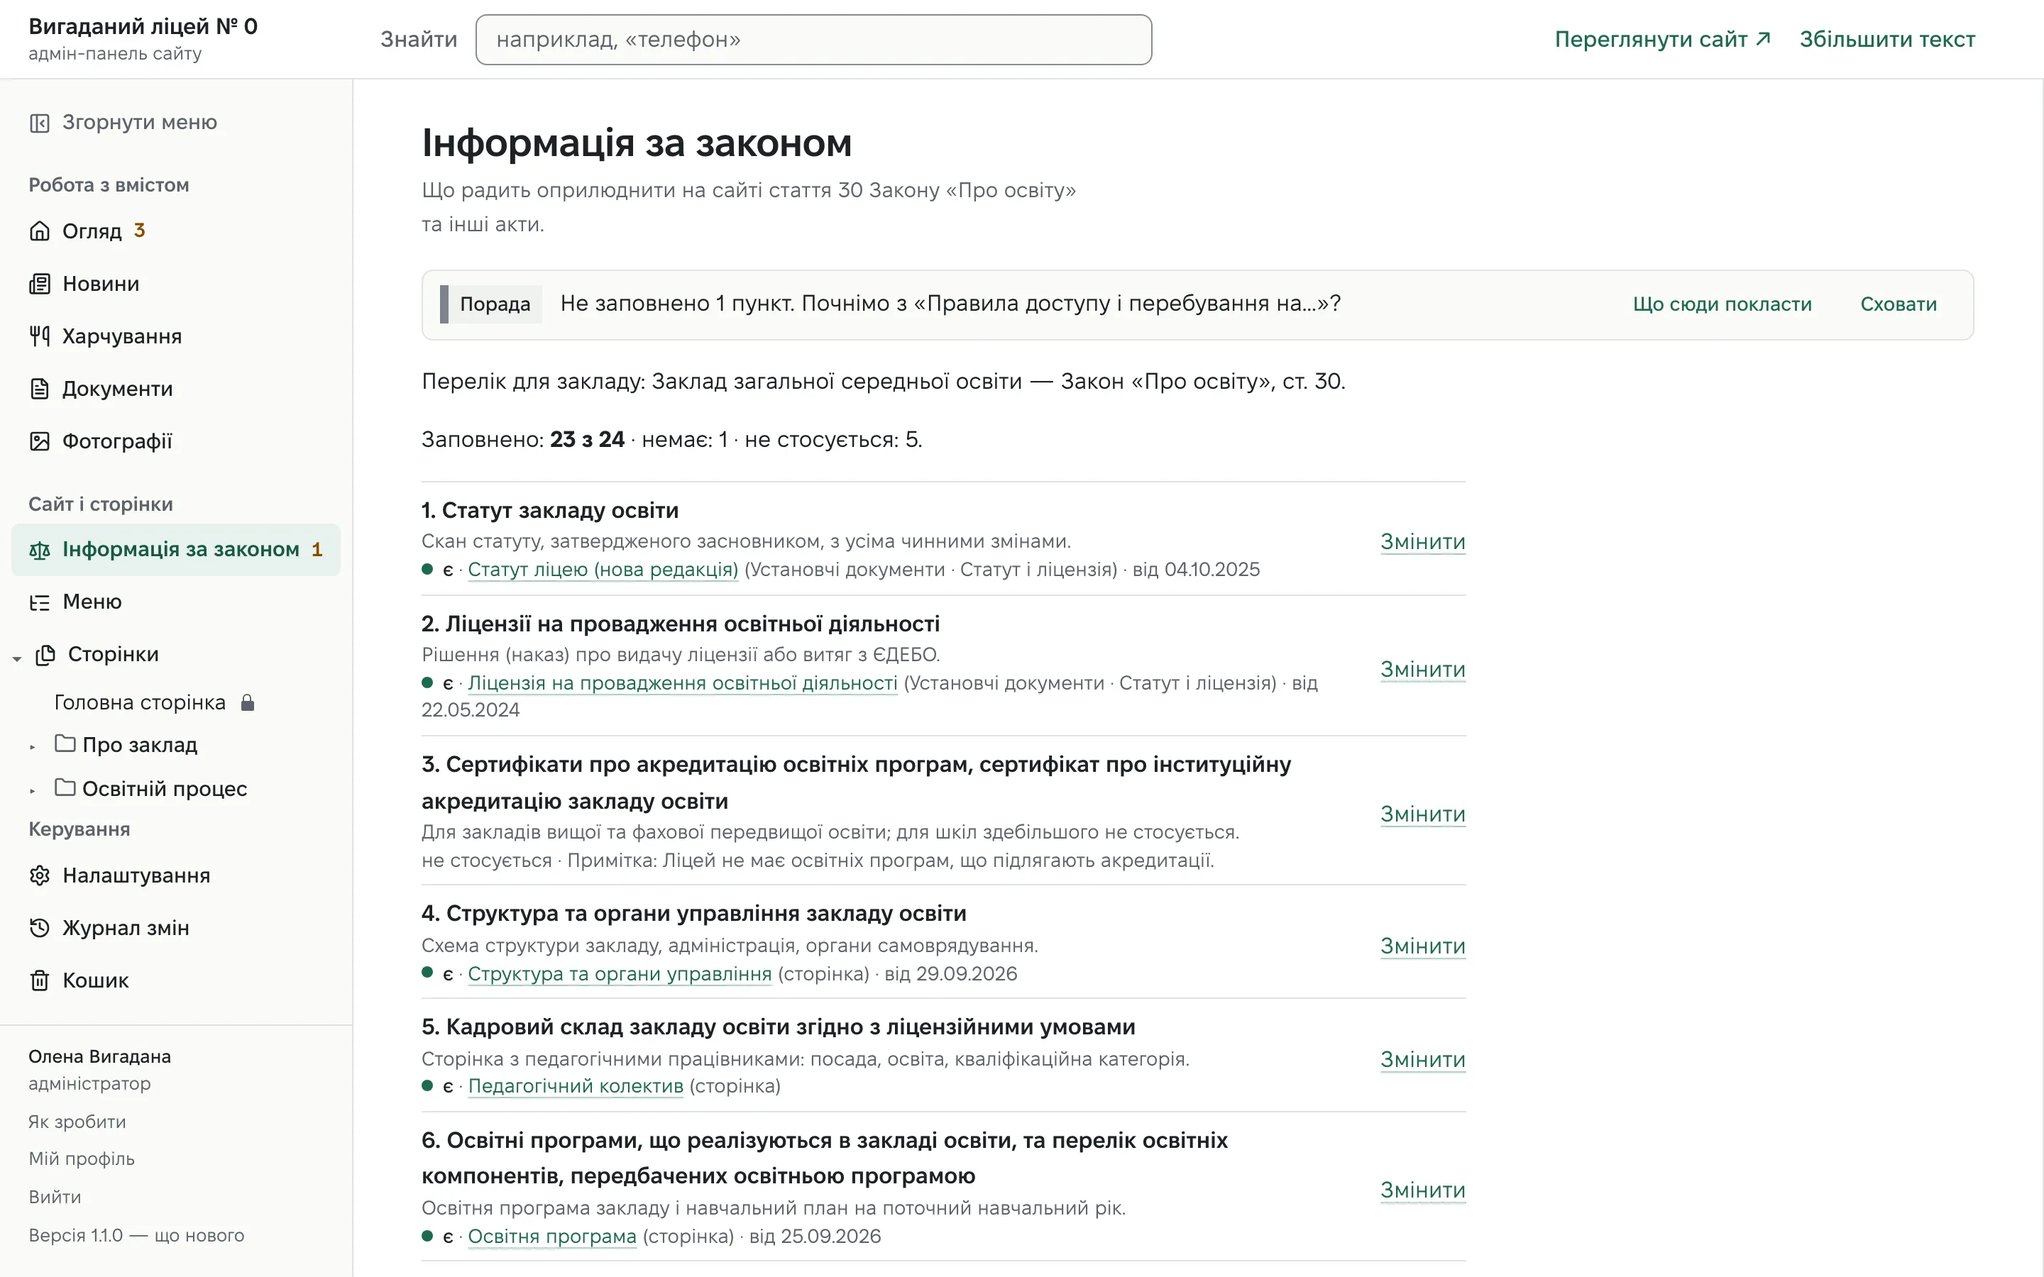
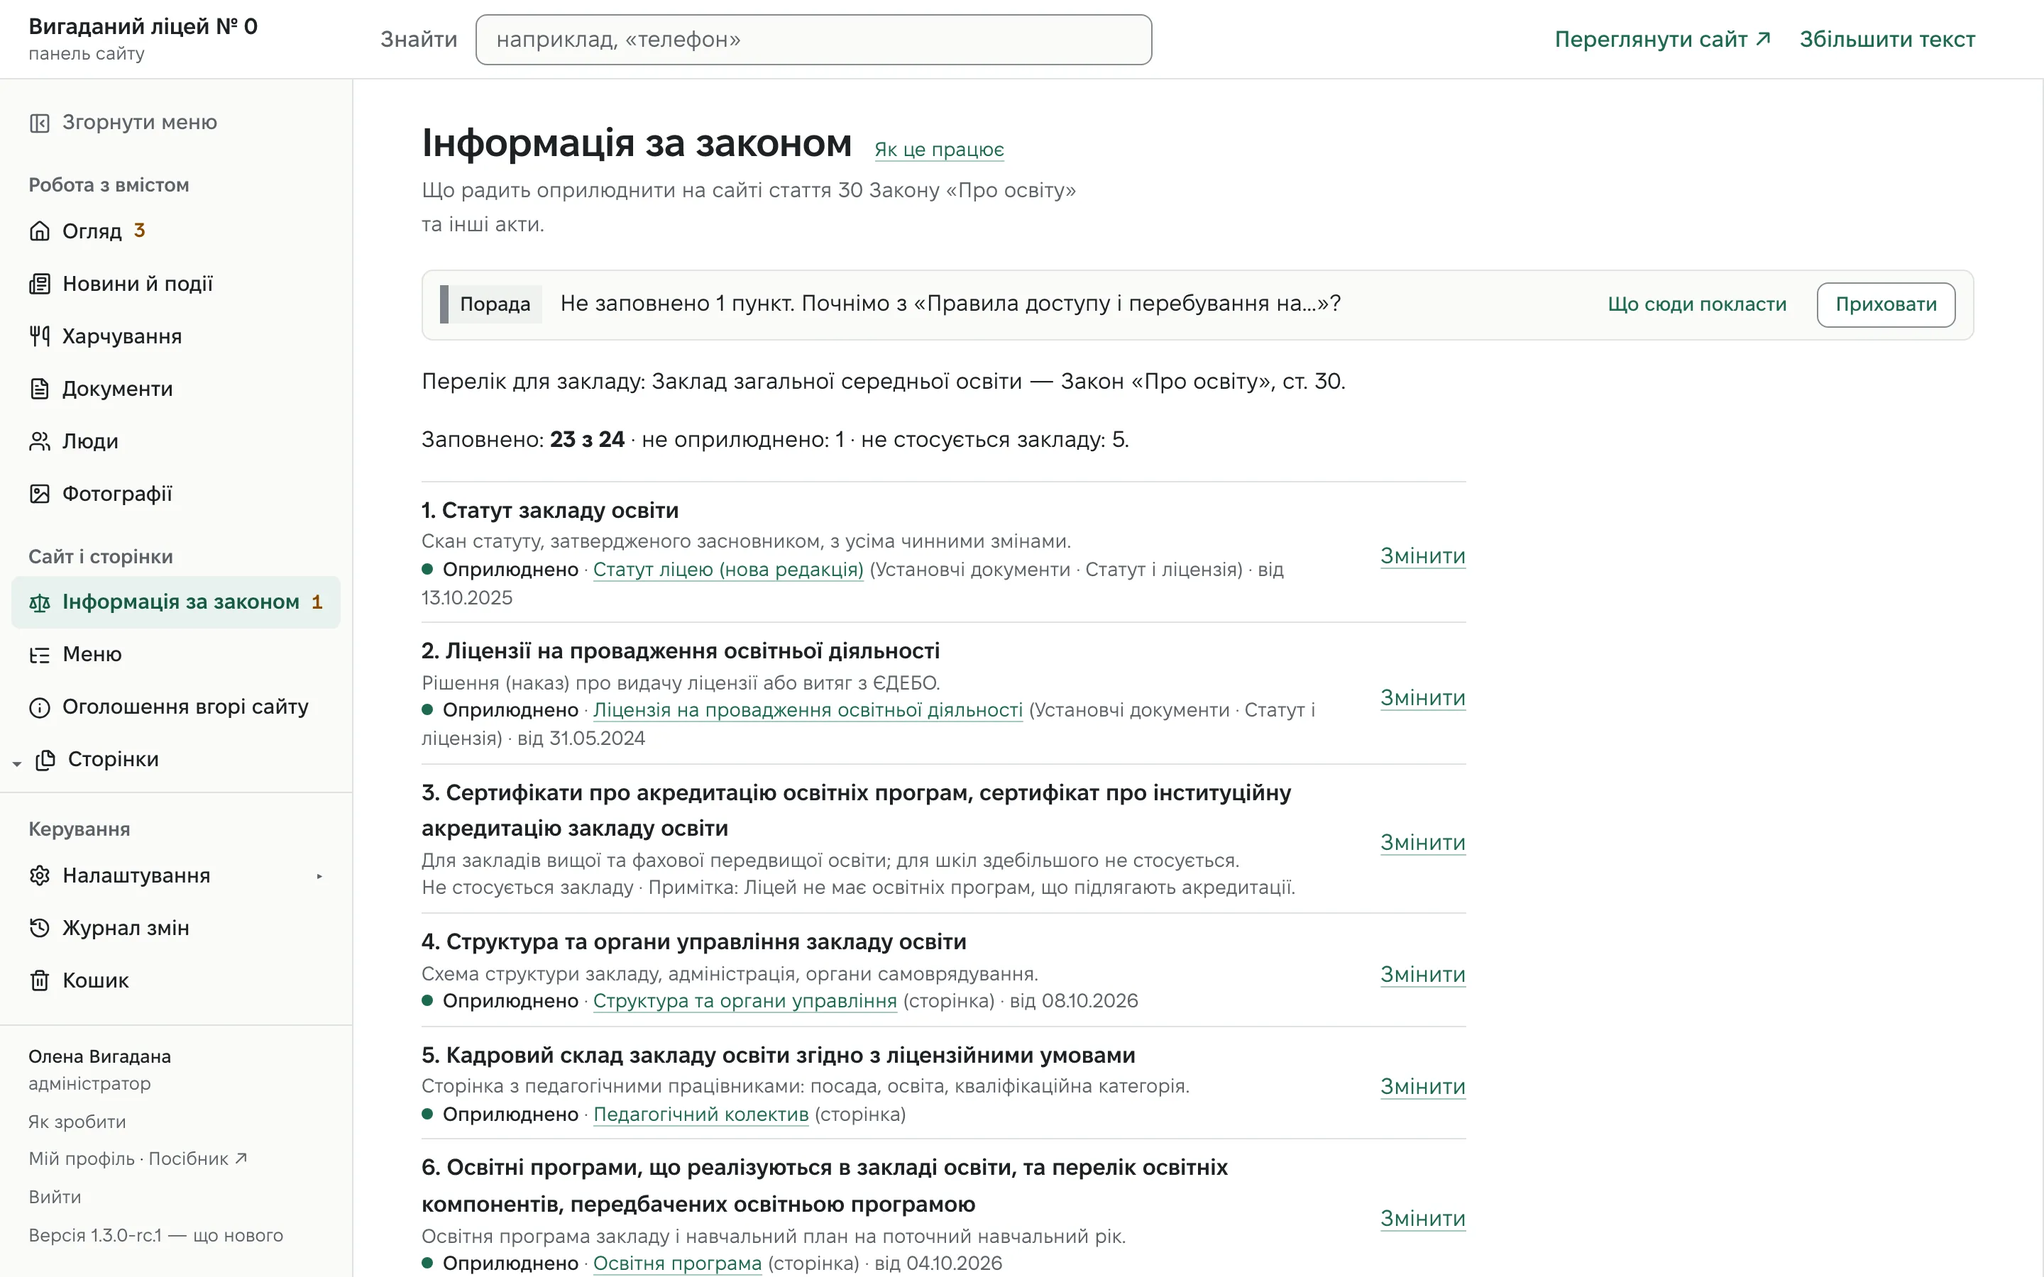
The panel and meals pictures and the texts follow Tabula 1.3.0 (#69)
Tabula 1.3.0 redesigned the panel and rebuilt «Харчування»: the photo is
taken on the tab «Сьогодні», the four-week menu is gone, «Меню на тиждень»
replaced it. The home's pictures were from 8–9 November.

Pictures (shot from 1.3.0-rc.1, without the assistant's buttons):
- the eight panel screens are re-shot; `admin-m-meals` now shows a meal card
  of «Сьогодні» with «Сфотографувати сніданок»;
- `phone-meal-allergens` and `phone-meal-day` are re-shot; the allergens
  picture sits in the tall phone frame, so the legend is inside it;
- the 16 template pictures and the КЕП line did not change and are untouched.

scripts/shots.mjs is reproducible again: the meal rows find their day on the
running demo instead of a hard-coded date (the newest three-photo day with
the chat card's dishes; the day with the allergen dishes) and fail loudly when
it is missing; the allergens setup works on 1.3.0; one sign-in for all panel
rows, and a row that lands on the sign-in page fails; `--only a,b`.
facts.json records the day of `phone-meal-day`, and the chat card of the
home reads its date from it.

Texts: «Три дотики»; «Меню на тиждень» instead of the four-week menu; the
allergen and calorie marks are shown for dishes with a card or manual marks
once their display is on; the role is «дописувач»; «Вигляд змінюєте
будь-коли»; the alts describe the new pictures. check-built refuses
«чотиритижнев» on a product page.

diff --git a/CLAUDE.md b/CLAUDE.md
@@ -2,7 +2,7 @@
 
 > Internal reference for Claude Code sessions working in this repository.
 >
-> **Last verified: 2026-11-17 («Спробувати»: the tick hint, the same address within the minute, the stored fields, no «відеотур»). Before that, 2026-11-16 (story 92 part B, slice SB1: the contract's edition of 2026-11-17 with п. 4.9, the form `third-party-consent`, the invoice's `thirdPartyConsent` line). Before that, 2026-11-15 (issue #57: the guide's two layers — structure from the imported files, areas in the sidebar, the landing at `/editor/`, topic links on every article, the hosted line; the product's header and footer on the guide's pages, `src/styles/chrome.css`).**
+> **Last verified: 2026-11-17 (issue #69: the panel and meals pictures re-shot from Tabula 1.3.0-rc.1, `facts.json`'s `mealDay`, the texts that 1.3.0 changed). Before that, 2026-11-17 («Спробувати»: the tick hint, the same address within the minute, the stored fields, no «відеотур»). Before that, 2026-11-16 (story 92 part B, slice SB1: the contract's edition of 2026-11-17 with п. 4.9, the form `third-party-consent`, the invoice's `thirdPartyConsent` line). Before that, 2026-11-15 (issue #57: the guide's two layers — structure from the imported files, areas in the sidebar, the landing at `/editor/`, topic links on every article, the hosted line; the product's header and footer on the guide's pages, `src/styles/chrome.css`).**
 >
 > **How to keep this file honest:** every pull request that changes a convention, a command,
 > or the file layout updates the matching section of this file in the same PR.
@@ -43,13 +43,14 @@ Exists now:
 | `src/components/product/` | Story 80: `Header.astro`, `Footer.astro` (with the `help` slot; three link columns and a bottom row, see Conventions), `Shot.astro` (responsive `astro:assets` image), `Tick.astro`, `shots.ts` (the screenshots + hero preload options), `home/*.astro` (one component per section) |
 | `src/components/product/home/NextStep.astro` | The slim «what to do next» row between two sections of the home (after the assistant and after «Чому Tabula»): one sentence, «Подати заявку» (`requestHref`) and an optional second link. «Чому Tabula» marks the usual way with a red cross and muted text, not struck-through text (it was hard to read); the assistant's six tabs are a 2 × 3 grid below 560 px |
 | `src/scripts/tabs.js`, `src/scripts/header.js` | Story 80: the only two scripts of the product pages (tabs with keyboard support — the assistant, the templates and the step tabs of «Харчування» and «Панель»; header shadow and «Меню») |
-| `src/assets/shots/` | Story 80: the home's screenshots (WebP) and `facts.json` (`lawFilled`/`lawTotal`), written by `scripts/shots.mjs`; committed |
+| `src/assets/shots/` | Story 80: the home's screenshots (WebP) and `facts.json` (`lawFilled`/`lawTotal`, `mealDay`: the ISO date shown on `phone-meal-day`, which the chat card of `Meals.astro` quotes through `src/lib/meal-day.mjs`), written by `scripts/shots.mjs`; committed |
 | `scripts/shots.mjs` (`npm run shots`), `scripts/lib/shot-kep-line.cjs` | Story 80: reproducible screenshots from a running tabula demo; the `SHOTS` table is exported and tested in `test/shots.test.mjs` |
 | `scripts/budget.mjs` (`npm run budget`), `scripts/lib/serve-dist.mjs` | Story 80: the home's performance budget (600 KB at 390 px, lazy images, LCP preload); the static server of `dist/` shared with `a11y.mjs` |
 | `scripts/documents.mjs` (`npm run documents`), `scripts/lib/document-templates.mjs`, `public/dokumenty/*.pdf` | The downloads of the documents table on «Для бухгалтерії» (`offer.documents[].pdf`): `document-templates.mjs` joins the forms of `scripts/lib/documents/` for the current edition into the eight files, which are printed to PDF, and `dohovir.pdf` is printed from the built contract page; committed — see Conventions («The contract») |
 | `scripts/lib/documents/` (`forms.mjs`, `format.mjs`, `print.mjs`), `scripts/documents-edition.mjs` (`npm run documents:edition`), `test/forms.test.mjs`, `test/fixtures/forms-look-2026-11.json` | The forms as pure functions: `renderForm(kind, terms, data)` (ten kinds; `FORMS[kind].fields` lists the data keys), the pure formatters (`offer.mjs` re-exports them) and the print frame with the embedded face (Tinos, `@fontsource/tinos`). The folder imports nothing outside itself; `documents:edition` copies it with `terms.json` and `manifest.json` (sha256 of every file) to `dist-documents/<contractEdition>/` (gitignored). The fixture holds the text of the eight public files after the look was redesigned (2026-11, ДСТУ 4163:2020), in the edition of 2026-11-17: the wording must not drift |
 | `THIRD_PARTY_LICENSES.md` | The fonts (SIL OFL 1.1, via Fontsource), the CC0 photos and the music of the guide's clips (CC BY 4.0) |
 | `public/guide/clips/<name>.mp4`, `<name>.webp` | The school guide's fourteen short clips (H.264 + AAC, 1280×720, about 19 MB together; recorded with a visible pointer — an arrow in a yellow highlight, a tap spot in the phone clip) and the poster of each; the name is the name in the guide's `<!-- video: <name> -->` marker; committed, served as they are — see Conventions («The guide's clips») |
+| `src/lib/meal-day.mjs`, `test/meal-day.test.mjs` | `formatMealDay(iso)`: «вівторок, 17 листопада» (no-break space) for the chat card of the home's «Харчування», from `facts.json`'s `mealDay` |
 | `test/tabs.test.mjs`, `test/shots.test.mjs` | `node --test`: tabs keyboard logic (pure helper + a fake DOM); the `SHOTS` table (every file exists, starts `RIFF….WEBP`, `facts.json` valid) |
 | `src/content/pages/*.md(x)`, `src/pages/[slug].astro`, `src/layouts/ProductPage.astro` | Story 80 (S2): the fourteen reading pages of the site (the `pages` collection; the fourteenth is `dohovir`, the contract), at `/<slug>/` in the product layout; the `.mdx` ones import `offer.mjs` for the numbers and dates |
 | `src/content/editions/dohovir-<edition>.mdx`, `src/pages/dohovir/[edition].astro`, `public/dokumenty/dohovir-<edition>.pdf` | The earlier editions of the contract (п. 10.3), frozen (their numbers inlined, links one level deeper) and listed in `offer.contractArchive`, each at `/dohovir/<edition>/` with its own PDF; `/dohovir/<contractEdition>/`, the address the forms cite, is an `astro.config.mjs` redirect to `/dohovir/`; `check-built`'s `checkContractEditions` holds both — see Conventions («The contract») |
@@ -395,13 +396,24 @@ happens in each workflow, not in the composite action. Both checkouts pass
   for the laptop); from 900 px the steps sit beside the stage, below it the stage comes right under the heading and the steps follow. Without JS every panel shows
   under its heading with the step's text (`.showcase__note`, hidden with JS). «Харчування»: admin phone → day page + the chat card sliding in from the right →
   `phone-meal-allergens` (with the `<li>` claim «15 алергенів за постановою № 305» and its link, spec decision 14) → the handwritten sheet (the scan line runs
-  once, then the «Сніданок / Обід» lines appear). `phone-meal-allergens` is a real shot of the public day page with the marks on: its row in `scripts/shots.mjs` has `setup: 'allergens'` (signs in as the fixture admin, turns on «Позначати алергени й калорійність у меню», marks the shot's day dishes with codes and kcal — it CHANGES the demo's throwaway database, so only that row runs it) and scrolls to the dishes and the legend. The panel screens of the «Панель» story (`admin-overview` `/admin`, `admin-news-editor` `/admin/news/1/edit`, `admin-pages` `/admin/pages`, `admin-documents`, `admin-albums` `/admin/photos`, `admin-events` `/admin/events`) are template-free rows clipped to the panel's content area, 1110×624 (16:9, so no button is cut at the right edge; `crop-overview` was dropped for `admin-overview`, same clip). The demo throttles sign-ins (a few per minute); shoot rows one at a time. (6) **«Панель»**: six step tabs (title + text; the first two are the mockup's strings, the rest written from `docs/editor/*.md`), each panel a laptop with its screen (`admin-overview`, `admin-news-editor`, `admin-pages`, `admin-documents`, `admin-albums`, `admin-events`); only the screen inside the frame moves on a switch. The five short lines of the mockup («Огляд» підкаже… Переїзд…) are a compact grid (`.panel__notes`) under the tabs. Step 2 says «попередні версії зберігаються», not «кожна версія»: the news «Історія» keeps the last 50 versions. The script is inlined
+  once, then the «Сніданок / Обід» lines appear). `phone-meal-allergens` is a real shot of the public day page with the marks on: its row in `scripts/shots.mjs` has `setup: 'allergens'` (uses the shared session of the fixture admin, turns on «Показувати калорійність, Б/Ж/В і алергени», marks the shot's day dishes with codes and kcal and ticks their «Показувати на сайті» boxes — it CHANGES the demo's throwaway database, so only that row runs it) and scrolls so that the breakfast block, the «Разом» lines and the start of the legend are in the frame. Its day is the seed's «Оладки зі сметаною…» day, `phone-meal-day`'s the day with three photos: the seed's dates are relative to the day the demo starts, so both are found on the running demo (`findMealDays`, `day: 'allergens' | 'photos'`; a missing day fails loudly). The first step's picture, `admin-m-meals`, is the panel's `/admin/kharchuvannia/sohodni` («Сьогодні») on a phone scrolled so the breakfast card (photo taken, dishes, «Сфотографувати сніданок», «Обрати фото з галереї», «Опублікувати») is whole in the frame; the title and tabs scroll out (at 390×844 the cards start below the fold). The panel screens of the «Панель» story (`admin-overview` `/admin`, `admin-news-editor` `/admin/news/1/edit`, `admin-pages` `/admin/pages`, `admin-documents`, `admin-albums` `/admin/photos`, `admin-events` `/admin/events`) are template-free rows clipped to the panel's content area, 1110×624 (16:9, so no button is cut at the right edge; `crop-overview` was dropped for `admin-overview`, same clip). The demo throttles sign-ins (a few per minute): one process signs in once and keeps the session for all its panel rows, so shoot panel rows together (`--only a,b,c`). (6) **«Панель»**: six step tabs (title + text; the first two are the mockup's strings, the rest written from `docs/editor/*.md`), each panel a laptop with its screen (`admin-overview`, `admin-news-editor`, `admin-pages`, `admin-documents`, `admin-albums`, `admin-events`); only the screen inside the frame moves on a switch. The five short lines of the mockup («Огляд» підкаже… Переїзд…) are a compact grid (`.panel__notes`) under the tabs. Step 2 says «попередні версії зберігаються», not «кожна версія»: the news «Історія» keeps the last 50 versions. The script is inlined
   into the home page whatever its size (`assetsInlineLimit` in `astro.config.mjs`): as a separate file it ran after the first paint and the panels it hides flashed.
   `npm run a11y` also scans the home at 1280 px with motion allowed after scrolling to the bottom in steps and waiting 3 s.
 - Screenshots (story 80, decision 11): `scripts/shots.mjs` (`npm run shots`) drives Playwright against a running tabula demo
-  (`npm run demo -- --seed school --template <key>` in a tabula checkout; `TABULA_DEMO_URL`, default `http://127.0.0.1:3100`) and
+  (`npm run demo -- --seed school --template <key> --port 3100` in a tabula checkout: without `--port` the demo takes a free port;
+  `TABULA_DEMO_URL`, default `http://127.0.0.1:3100`) and
   writes WebP into `src/assets/shots/` (committed); its exported `SHOTS` table is the list of files. `--template <key>` shoots that
-  template's rows plus the template-free ones (the body class is checked against the demo's template); `--only <file>` one row.
+  template's rows plus the template-free ones (the body class is checked against the demo's template); `--only <file>[,<file>…]` takes those rows.
+  The pictures of the panel and the meals were last shot from Tabula 1.3.0-rc.1 (`TABULA_DIR` pointing at an export of that tag; the 16
+  template pictures and `kep-line` did not change and were not re-shot). The demo is started without `--fake-platform` / `--fake-gateway`:
+  `--fake-platform` (a site «on hosting») does NOT remove the «Пошту не налаштовано» card of «Огляд» (checked on 1.3.0), and the
+  assistant's buttons stay out of the pictures while `offer.assistantStatus` is `testing`; nothing on a page is hidden or edited for a shot.
+  The sidebar of `admin-law` shows the demo's version label «Версія 1.3.0-rc.1»: re-shoot it from the release when it is out.
+  The meal rows find their day on the running demo (the seed's dates are relative to the day it starts): `phone-meal-day` takes the
+  newest day with three photos that lists `CHAT_DISHES` (the dishes the chat card of `Meals.astro` types by hand: change the two
+  together), `phone-meal-allergens` the day with `ALLERGEN_DISHES`; a missing day fails the run, and so does a panel row that lands on
+  the sign-in page. The two pictures of the home's «Харчування» that show a whole phone screen (`admin-m-meals`,
+  `phone-meal-allergens`) sit in the tall phone frame, so the legend under the menu is inside the frame.
   The demo's address (origin and host:port from `TABULA_DEMO_URL`, and `localhost`) is replaced by `licey0.tabula.org.ua` in the page before each shot; shots are written at their real scale-2 pixel size (astro:assets makes the responsive widths). `phone-meal-day` and `kep-line` are pinned to `panorama`. `kep-line` needs a signed document, which
   the demo cannot show (its signatures are not chained to a trusted provider), so `scripts/lib/shot-kep-line.cjs` starts a throwaway
   site from the tabula checkout (`TABULA_DIR`, default `../tabula`) with a fictitious trusted chain. The three CC0 photos are copied

diff --git a/CONTRIBUTING.md b/CONTRIBUTING.md
@@ -108,14 +108,18 @@ takes them from a running demo of tabula, in two terminals.
 
 ```sh
 # terminal 1, in a tabula checkout (a sibling ../tabula by default):
-npm run demo -- --seed school --template panorama
+npm run demo -- --seed school --template panorama --port 3100
 
 # terminal 2, in this repository (npx playwright install chromium once):
 npm run shots -- --template panorama
 ```
 
 `--template <key>` takes the rows of that template and the template-free rows (the panel screens); `phone-meal-day` and `kep-line` show a public page, so they are pinned to `panorama`; restart the
-demo with `--template vitryna`, `stend` or `shkilna` and repeat for those. `--only <file>` takes one row. The table
+demo with `--template vitryna`, `stend` or `shkilna` and repeat for those. `--only <file>` takes one row (`--only a,b` several, with
+one sign-in for all their panel rows). Without `--port` the demo takes a free port: pass one, or set `TABULA_DEMO_URL` to what it
+prints. Start it without `--fake-platform` and `--fake-gateway`. The seed's dates are relative to the day the demo starts; the two
+meal rows find their day on the running demo, and `phone-meal-allergens` changes the demo's database, so restart the demo before
+shooting any other row after it. The table
 of rows is `SHOTS` in `scripts/shots.mjs`. Environment: `TABULA_DEMO_URL` (default `http://127.0.0.1:3100`),
 `TABULA_DEMO_LOGIN` / `TABULA_DEMO_PASSWORD` (default: the demo's throwaway fixture account), `TABULA_DIR` (the tabula
 checkout, default `../tabula`: the CC0 photos, and the fixtures for `kep-line`, which starts a throwaway site of its own
